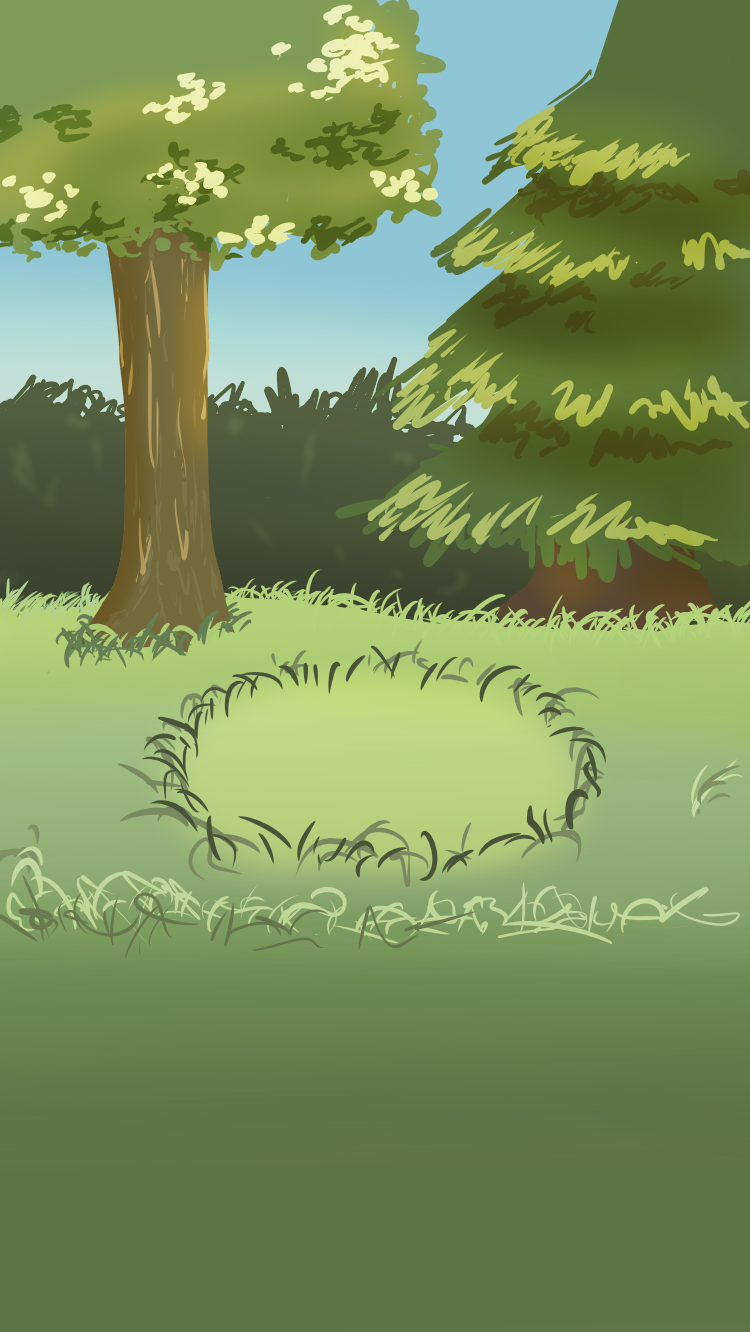
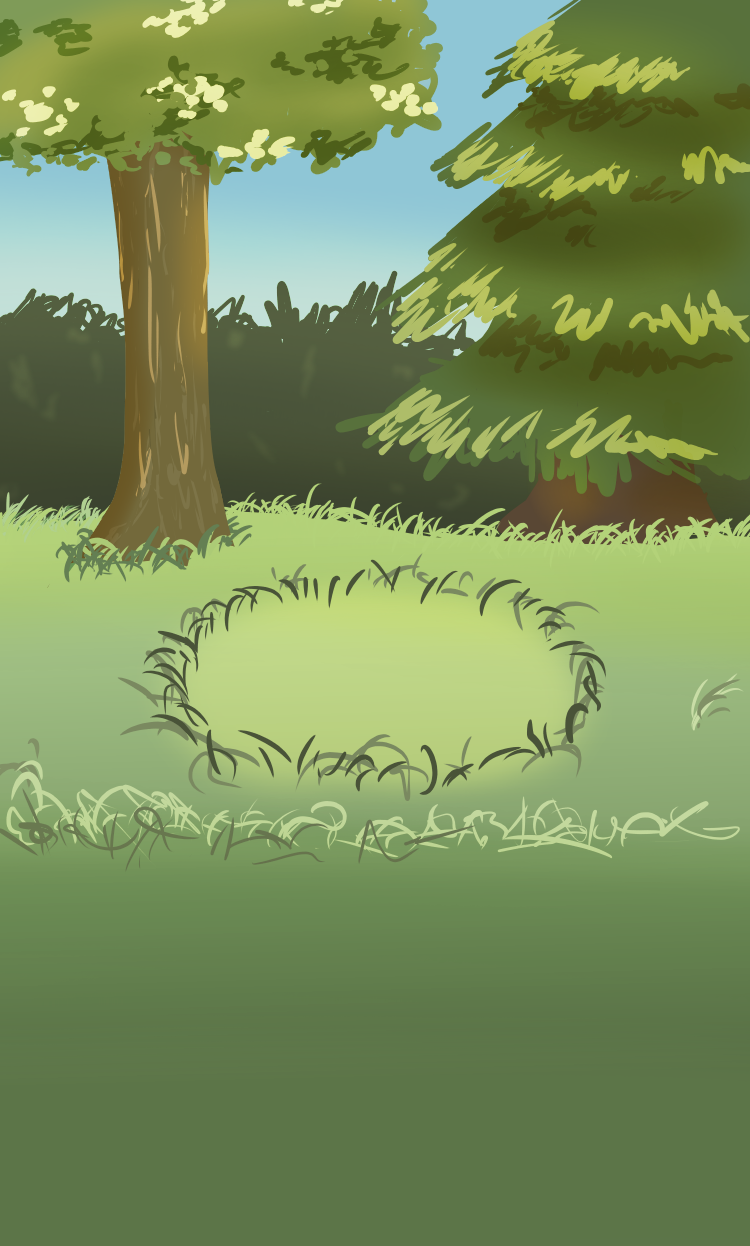
pet page renders background

diff --git a/www/css/style.css b/www/css/style.css
@@ -3,13 +3,9 @@
   height: 625px;
   z-index: -1;
   position: relative;
-  /* Permalink - use to edit and share this gradient: http://colorzilla.com/gradient-editor/#1e5799+0,3ca840+0,8dd9fc+0,0fb0d8+59,22d883+61,3ca840+100 */
-  background: #1e5799; /* Old browsers */
-  background: -moz-linear-gradient(top,  #1e5799 0%, #3ca840 0%, #8dd9fc 0%, #0fb0d8 59%, #22d883 61%, #3ca840 100%); /* FF3.6-15 */
-  background: -webkit-linear-gradient(top,  #1e5799 0%,#3ca840 0%,#8dd9fc 0%,#0fb0d8 59%,#22d883 61%,#3ca840 100%); /* Chrome10-25,Safari5.1-6 */
-  background: linear-gradient(to bottom,  #1e5799 0%,#3ca840 0%,#8dd9fc 0%,#0fb0d8 59%,#22d883 61%,#3ca840 100%); /* W3C, IE10+, FF16+, Chrome26+, Opera12+, Safari7+ */
-  filter: progid:DXImageTransform.Microsoft.gradient( startColorstr='#1e5799', endColorstr='#3ca840',GradientType=0 ); /* IE6-9 */
-
+  background-image: url('../img/woods_day.png');
+  background-position: top -2000px;
+  background-size: 100%;
 }
 
 .progress-text {
